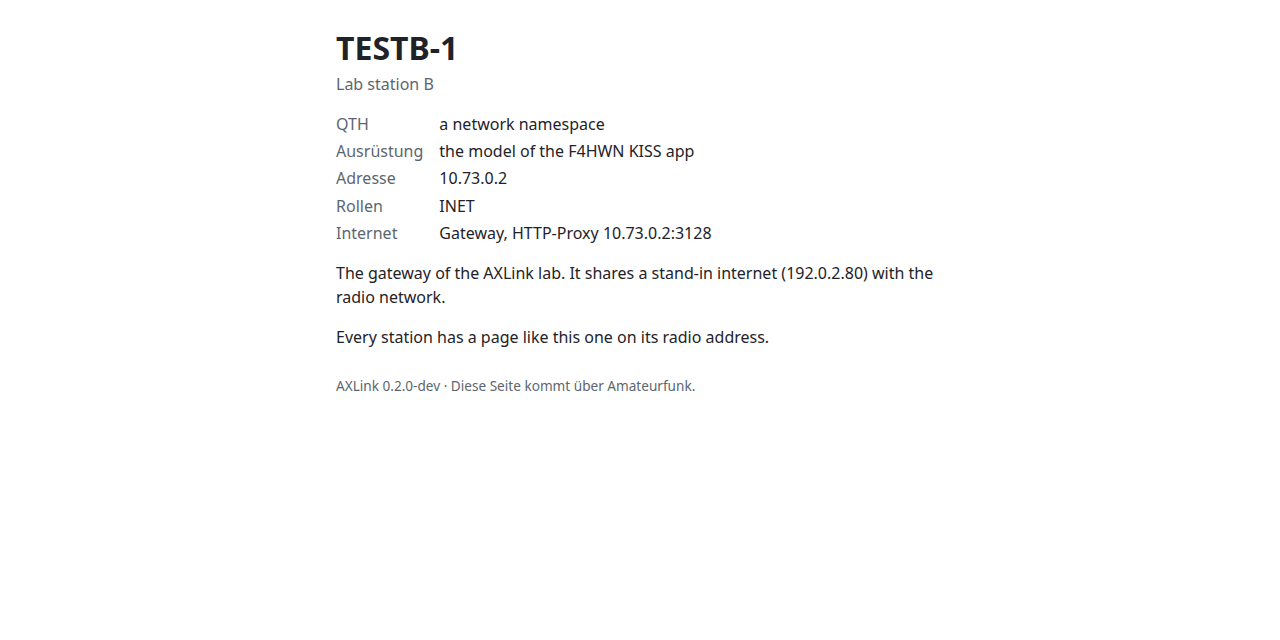
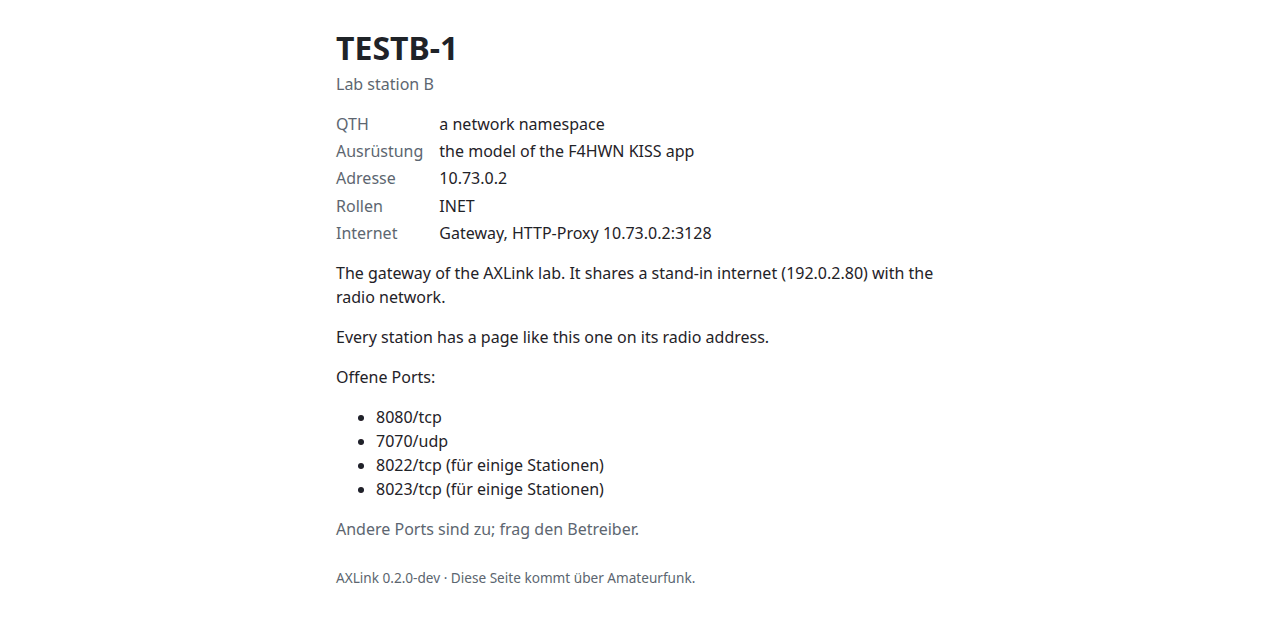
Beacons: random postponed answers, a relay's echo; new pictures
Another mesh run failed: the first beacons of A and C collided at B
before they knew B, and their answers to B, postponed to exactly 30 s
after those beacons, collided again; then nothing for ten minutes. A
postponed answer now waits a random 2-8 s more, and a beacon sent with
the flood alias must come back repeated by the relay, else it goes out
again after 10-20 s (three times in all); the relay's copy also ends the
asking again. Two runs side by side then passed, one of them after the
same first collision (answers 0.7 s apart).

New pictures from the labs: the chat of A and of B, the mesh lab's
station list (C via B, with locator and distance), a chat over the relay,
the settings with relay and port forwarding, and the results of both
labs. The mesh lab's stations announce locators about 11 km apart.

Claude-Session: https://claude.ai/code/session_01FQn5b4ALqUnyishbDBEL3W

Changed region(s): [[0.25, 0.5625, 0.5625, 0.7812], [0.25, 0.875, 0.5312, 0.9062], [0.25, 0.8125, 0.5, 0.8438]]

diff --git a/internal/discovery/service.go b/internal/discovery/service.go
@@ -27,6 +27,11 @@ var (
 	// other may have asked at the same moment and collided at a relay.
 	askAgain = [2]time.Duration{10 * time.Second, 20 * time.Second}
 	maxAsks  = 3
+	// A beacon sent with the flood alias comes back repeated by the relay;
+	// without that echo after echoWait it goes out again, maxSends times in
+	// all: it collided at the relay with a station we cannot hear.
+	echoWait = [2]time.Duration{10 * time.Second, 20 * time.Second}
+	maxSends = 3
 )
 
 // Config sets up a Service.
@@ -104,6 +109,9 @@ type Service struct {
 	lastSent time.Time
 	askAt    time.Time // ask again then, if nothing was heard since the last ask; zero for not
 	asks     int       // beacons with ask=1 sent
+	echoAt   time.Time // send again then, if no relay has repeated the last beacon; zero for not
+	echoAsk  bool      // that beacon asked
+	sends    int       // copies of that beacon sent
 }
 
 // New returns a service; start Run to send beacons.
@@ -175,7 +183,9 @@ func (s *Service) due(now time.Time) (send, ask bool, wake time.Time) {
 	// since the beacon that asked for it.
 	if !s.answerAt.IsZero() && !now.Before(s.answerAt) {
 		if now.Sub(s.lastSent) < answerGap {
-			s.answerAt = s.lastSent.Add(answerGap) // at most one answer in 30 s
+			// At most one answer in 30 s; the random part keeps two stations
+			// whose beacons collided from answering in step again.
+			s.answerAt = s.lastSent.Add(answerGap + s.between(answerDelay))
 		} else {
 			return true, s.first, time.Time{}
 		}
@@ -186,6 +196,9 @@ func (s *Service) due(now time.Time) (send, ask bool, wake time.Time) {
 	if !s.askAt.IsZero() && !now.Before(s.askAt) {
 		return true, true, time.Time{}
 	}
+	if !s.echoAt.IsZero() && !now.Before(s.echoAt) {
+		return true, s.echoAsk, time.Time{}
+	}
 	wake = s.next
 	if !s.answerAt.IsZero() && s.answerAt.Before(wake) {
 		wake = s.answerAt
@@ -193,12 +206,28 @@ func (s *Service) due(now time.Time) (send, ask bool, wake time.Time) {
 	if !s.askAt.IsZero() && s.askAt.Before(wake) {
 		wake = s.askAt
 	}
+	if !s.echoAt.IsZero() && s.echoAt.Before(wake) {
+		wake = s.echoAt
+	}
 	return false, false, wake
 }
 
 func (s *Service) send(now time.Time, ask bool) {
 	s.mu.Lock()
-	frame, err := s.cfg.beacon(ask).FrameVia(s.cfg.Call, s.floodLocked(now))
+	path := s.floodLocked(now)
+	frame, err := s.cfg.beacon(ask).FrameVia(s.cfg.Call, path)
+	again := !s.echoAt.IsZero() && !now.Before(s.echoAt) // the last copy did not come back
+	s.echoAt = time.Time{}
+	if len(path) > 0 {
+		if again {
+			s.sends++
+		} else {
+			s.sends = 1
+		}
+		if s.sends < maxSends {
+			s.echoAt, s.echoAsk = now.Add(s.between(echoWait)), ask
+		}
+	}
 	s.lastSent = now
 	s.first = false
 	s.answerAt = time.Time{} // this beacon answers everything heard before
@@ -303,6 +332,9 @@ func (s *Service) Handle(frame []byte) bool {
 		s.warnOnce("invalid:"+call.String(), "invalid beacon ignored", "call", call.String(), "err", err)
 		return true
 	case call.SameStation(s.cfg.Call):
+		if len(via) > 0 { // a relay repeated our beacon: it reached the relay and goes on from there
+			s.echoAt, s.askAt = time.Time{}, time.Time{}
+		}
 		echo := b.Addr == s.cfg.Addr && b.Every == s.cfg.Every && b.Proxy == s.cfg.Proxy && slices.Equal(b.Tags, s.cfg.Tags) &&
 			b.Locator == s.cfg.Locator
 		if !echo { // an echo of our own beacon (some TNCs return what they sent) is fine

diff --git a/internal/discovery/service_test.go b/internal/discovery/service_test.go
@@ -184,7 +184,11 @@ func TestAtMostOneAnswerIn30Seconds(t *testing.T) {
 	if len(ts.sent) != 1 {
 		t.Fatal("answered within 30 s of the last beacon")
 	}
-	ts.step(sentAt.Add(30 * time.Second))
+	ts.step(sentAt.Add(30*time.Second + answerDelay[0] - time.Millisecond))
+	if len(ts.sent) != 1 {
+		t.Fatal("the postponed answer came without its random wait")
+	}
+	ts.step(sentAt.Add(30*time.Second + answerDelay[1]))
 	if len(ts.sent) != 2 {
 		t.Fatal("the postponed answer did not come")
 	}
@@ -378,6 +382,36 @@ func TestAnUnansweredAskIsRepeated(t *testing.T) {
 	ts.step(ts.after(5 * time.Minute))
 	if n := asks(ts.sent); n != 1 {
 		t.Fatalf("%d asks from a station alone", n)
+	}
+}
+
+func TestAFloodedBeaconIsSentAgainUntilARelayRepeatsIt(t *testing.T) {
+	ts := newTestService(t, DefaultEvery)
+	ts.step(ts.after(5 * time.Second)) // the first beacon, no relay known: no path, no echo expected
+	ts.Handle(beaconFrom(t, "TESTB-1", Beacon{Addr: addr("10.73.0.2/24"), Tags: []string{"RELAY"}}))
+	start := ts.now
+	ts.step(start.Add(time.Minute)) // the answer to B, with AXHOP-2
+	ts.step(start.Add(3 * time.Minute))
+	flooded := 0
+	for _, p := range ts.paths {
+		if len(p) > 0 {
+			flooded++
+		}
+	}
+	if flooded != maxSends {
+		t.Fatalf("%d flooded beacons without an echo, want %d: %v", flooded, maxSends, ts.paths)
+	}
+	// With the relay's copy coming back, one is enough.
+	ts = newTestService(t, DefaultEvery)
+	ts.Handle(beaconFrom(t, "TESTB-1", Beacon{Addr: addr("10.73.0.2/24"), Tags: []string{"RELAY"}}))
+	ts.step(ts.after(5 * time.Second))
+	if len(ts.sent) != 1 || len(ts.paths[0]) != 1 {
+		t.Fatalf("%+v %v", ts.sent, ts.paths)
+	}
+	ts.Handle(relayed(t, "TESTA-1", ts.sent[0], "TESTB-1"))
+	ts.step(ts.after(3 * time.Minute))
+	if len(ts.sent) != 1 {
+		t.Fatalf("sent again although B repeated it: %d", len(ts.sent))
 	}
 }
 

diff --git a/README.md b/README.md
@@ -4,25 +4,28 @@
   <img alt="Status: alpha" src="https://img.shields.io/badge/status-alpha-orange">
   <a href="https://github.com/TechnikWeber/AXLink/releases"><img alt="Latest release" src="https://img.shields.io/github/v/release/TechnikWeber/AXLink?include_prereleases&label=release"></a>
   <a href="https://github.com/TechnikWeber/AXLink/actions/workflows/ci.yml"><img alt="tests" src="https://img.shields.io/github/actions/workflow/status/TechnikWeber/AXLink/ci.yml?branch=main&label=tests"></a>
-  <img alt="Platform: Linux | Windows (macOS planned)" src="https://img.shields.io/badge/platform-Linux%20%7C%20Windows%20%28macOS%20planned%29-blue">
+  <img alt="Platform: Linux | Windows | macOS" src="https://img.shields.io/badge/platform-Linux%20%7C%20Windows%20%7C%20macOS-blue">
   <img alt="Radio: any KISS TNC, UV-K1 | UV-K5 V3" src="https://img.shields.io/badge/radio-KISS%20TNC%20%7C%20UV--K1%20%7C%20UV--K5%20V3-blue">
   <img alt="UI: English | German" src="https://img.shields.io/badge/UI-English%20%7C%20German-informational">
   <a href="LICENSE"><img alt="License: GPL-3.0-or-later" src="https://img.shields.io/badge/license-GPL--3.0--or--later-green"></a>
 </p>
 
-**Ordinary network programs over a handheld radio: ping, curl and small web servers at
-1200 baud.**
+**Ordinary network programs over a handheld radio: ping, browsers, SSH, small web servers and a
+chat at 1200 baud.**
 
 AXLink connects a KISS radio or TNC, opens a virtual network adapter and sends IP packets as
 AX.25 UI frames (PID `0xCC`), the framing that Linux, JNOS, BPQ and Packet.NET use. Programs work
-unchanged, only slowly.
+unchanged, only slowly. Next to that it carries a chat as APRS messages, relays for stations out
+of range, and an internet gateway for stations without internet.
 
 It is tuned first to the Quansheng UV-K1 / UV-K5 V3 with the F4HWN firmware and its KISS TNC
 app, and works with any KISS TNC (Dire Wolf, hardware TNCs, KISS over TCP).
 
-> **Status: alpha (0.2.0-dev).** Linux works in the lab: two stations, a simulated channel,
-> real kernel IP stacks. On Windows the network adapter passes its test in CI. Real radios and
-> macOS come next. Nothing has been on the air yet.
+> **Status: alpha, prerelease 0.2.0-alpha.1.** Works in the lab: stations in their own network
+> namespaces with real kernel IP stacks, a simulated channel with a model of the F4HWN KISS app,
+> two stations or three with a relay. The network adapter passes its test in CI on Linux,
+> Windows and macOS. **Nothing has been on the air with a real radio yet.**
+> Start: [QUICKSTART.md](docs/QUICKSTART.md).
 
 ![The web interface: live monitor, stations heard, internet gateway and firewall](docs/images/client-overview-en.png)
 
@@ -36,65 +39,92 @@ a welcome page over the radio ([English](docs/images/welcome-en.png), [German](d
 
 ## What works
 
-- `axlinkd run`: a radio over USB (F4HWN radios are found by their USB ID `36B7:FFFF`), KISS
+- **A network adapter** on Linux (TUN), Windows (Wintun) and macOS (utun) and IPv4 over AX.25
+  UI/PID `0xCC`, with a destination filter, checksum checks, routes and a broadcast filter.
+  Radio packets stay at 256 bytes; where the adapter MTU must be larger (Windows: 576), AXLink
+  lowers the TCP MSS and fragments.
+- **`axlinkd run`:** a radio over USB (F4HWN radios are found by their USB ID `36B7:FFFF`), KISS
   over TCP or a Unix socket. It reconnects after USB resets, paces frames per TNC profile and
-  supports ACKMODE.
-- Station discovery: each station announces its address and roles (`INET`, `RELAY`, …) in a
-  short beacon, so stations in the same subnet reach each other without configured routes.
-- Internet gateway: a station with internet access shares it as an HTTP proxy (HTTPS through
-  CONNECT, names resolved on the gateway). A client chooses the gateway in its web interface;
-  browser and programs use the local proxy `127.0.0.1:7374`, set up once.
-- A web interface in English and German with a live monitor (channel load, transmit queue,
-  throughput as in a task manager), the stations heard, the choice of the gateway and settings
-  that survive a restart. It runs on the own computer and needs no internet.
-- A firewall, on by default: radio stations reach only answers to own connections, ping and the
-  ports you open, optionally per callsign; your home network is never reachable over the radio.
-- A welcome page per station on its radio address, written in the web interface: who runs it,
-  where, with what.
-- A network adapter `axl0` on Linux (TUN) and Windows (Wintun) and IPv4 over AX.25 UI/PID
-  `0xCC`, with a destination filter, checksum checks, routes and a broadcast filter. Radio
-  packets stay at 256 bytes; where the adapter MTU must be larger (Windows: 576), AXLink lowers
-  the TCP MSS and fragments.
-- A lab without radios: `scripts/lab-netns.sh` runs two stations in their own network namespaces
-  (no root, no Docker) and checks beacons, ping, UDP, HTTP, the gateway and the web interface
-  through a simulated channel with a model of the F4HWN KISS app. It also runs in CI.
+  supports ACKMODE ([AXLink TNC](https://github.com/TechnikWeber/AXLink-TNC)).
+- **Stations find each other:** each station announces its address, roles (`INET`, `RELAY`, …)
+  and, if its operator wants, its locator in a short beacon. No routes to configure; the station
+  list shows distance and direction.
+- **Chat** as APRS messages straight over the radio, no IP: to a station (acknowledged, repeated,
+  kept in a mailbox until the station is heard again, for up to a week) or to everyone in the CQ
+  room. Neither the firewall nor the internet sharing stands in the way. Radios with the
+  [APRS messenger firmware](https://github.com/TechnikWeber/uv-k1-k5v3-aprs-firmware) speak the
+  same format.
+- **Mesh:** a station switched to "Relay" repeats frames as a digipeater; beacons and CQ travel
+  over up to two relays, and stations learn over which relays the others are reached
+  ([protocol](docs/protocol/mesh.md)).
+- **Internet gateway:** a station with internet access shares it as an HTTP proxy (HTTPS through
+  CONNECT, names resolved on the gateway), open to everyone or to listed callsigns. A client
+  chooses the gateway in its web interface or asks for access in the chat; browser and programs
+  use the local proxy `127.0.0.1:7374`.
+- **A firewall,** on by default: radio stations reach only answers to own connections, ping and
+  the ports you open, optionally per callsign; a refused station learns it at once instead of
+  waiting. **Port forwarding** publishes one service of your network (SSH, a web server) on the
+  radio address; the rest of your network stays unreachable.
+- **A welcome page** per station on its radio address: who runs it, where, with what, which
+  ports are open.
+- **A web interface** in English and German: a live monitor (channel load, transmit queue,
+  throughput as in a task manager), the stations heard, the chat, the gateway and settings that
+  survive a restart. It runs on the own computer and needs no internet.
+- **A lab without radios:** `scripts/lab-netns.sh` (two stations) and `scripts/lab-mesh.sh`
+  (three in a line, the middle one relays) run stations in their own network namespaces (no
+  root, no Docker) through a simulated channel with a model of the F4HWN KISS app. The
+  two-station lab also runs in CI.
+
+![The chat: a message to TESTB-1, acknowledged, and its answer](docs/images/client-chat-en.png)
+
+*The chat of station A in the lab: a message to B, delivered and acknowledged at the first try,
+and B's answer. APRS messages over the simulated channel, no IP. [German](docs/images/client-chat-de.png).*
+
+![Station A sees C over the relay B](docs/images/mesh-overview-en.png)
+
+*The mesh lab: A hears only B; C, out of A's range, is listed "via TESTB-1" with its locator and
+distance, and reached over B. [German](docs/images/mesh-overview-de.png) ·
+[a chat with C over B](docs/images/mesh-chat-en.png) · [the lab's result](docs/images/lab-mesh.svg).*
 
 ![Result of the two-station lab](docs/images/lab.svg)
 
-*A lab run on 2026-11-02 (`bash scripts/lab-netns.sh`; picture from its output with
-`scripts/lab-svg.py`). A model, not a radio.*
+*A lab run (`bash scripts/lab-netns.sh`; picture from its output with `scripts/lab-svg.py`). A
+model, not a radio.*
 
 ## Quick start
 
+Download the package for Linux, Windows or macOS from the
+[releases](https://github.com/TechnikWeber/AXLink/releases), unpack it and start, with your own
+callsign and an address agreed with the other stations:
+
 ```sh
-bash scripts/setup-go.sh                 # Go into .tools/go
-export PATH="$PWD/.tools/go/bin:$PATH"
-go test ./...
-bash scripts/lab-netns.sh                # the two-station lab
-go build -o axlinkd ./cmd/axlinkd
-./axlinkd ports
-sudo ./axlinkd run -call <CALL>-1 -port auto -ip 10.73.0.1/24
+sudo ./axlinkd run -call <CALL>-1 -port auto -ip 10.73.0.1/24      # Windows: as administrator, axlinkd.exe
 # then open http://127.0.0.1:7373 in the browser
 ```
 
-Windows: an administrator PowerShell and `wintun.dll` next to `axlinkd.exe`
-(`scripts/fetch-wintun.ps1`); see [DEVELOPMENT.md](docs/DEVELOPMENT.md).
+Step by step for each system, the radio included: [QUICKSTART.md](docs/QUICKSTART.md). From the
+source code: `bash scripts/setup-go.sh`, then `go build ./cmd/axlinkd`
+([DEVELOPMENT.md](docs/DEVELOPMENT.md)).
 
 Use your own callsign; placeholders such as `N0CALL` are refused. Every operator is
 responsible for what is allowed on their frequency; AXLink does not restrict traffic.
 
 ## Radio firmware
 
-- F4HWN Labs v6.3.0 with its KISS TNC app works today.
+- F4HWN Labs v6.3.0 with its KISS TNC app (profile `f4hwn-kisstnc`, the default).
 - [AXLink TNC](https://github.com/TechnikWeber/AXLink-TNC): our variant of the KISS app with
-  extensions for hosts such as AXLink (in progress). Runs on the original Labs v6.3.0.
+  ACKMODE, a counter for lost frames and a fix for frames cut by a USB reset (prerelease
+  v0.2.0-alpha.1, host-tested, not yet on a radio; profile `f4hwn-kisstnc-ackmode`). Runs on the
+  original Labs v6.3.0.
 - Messenger and KISS TNC on one radio until F4HWN v7: [MULTIBOOT_V6.md](docs/MULTIBOOT_V6.md).
 
 ## Documents
 
 | Document | Content |
 |---|---|
+| [QUICKSTART.md](docs/QUICKSTART.md) | install and start on Linux, Windows, macOS |
 | [ARCHITECTURE.md](docs/ARCHITECTURE.md) | how AXLink is built |
+| [protocol/](docs/protocol/) | the beacon and the relays (CC BY 4.0) |
 | [DECISIONS.md](docs/DECISIONS.md) | the decisions; they take precedence |
 | [DEVELOPMENT.md](docs/DEVELOPMENT.md) | build, test, run, lab |
 | [TODO.md](docs/TODO.md) | open points |

diff --git a/docs/protocol/beacon.md b/docs/protocol/beacon.md
@@ -64,11 +64,16 @@ chooses that, e.g. by setting the announced proxy as its HTTP proxy.
 - Then periodically every `every` seconds, varied at random by ±10 %.
 - Answer: after a beacon with `ask=1`, or one from a station that is not in the table, a station
   sends its own beacon after a random 2–8 s, unless it has sent one since it heard that beacon.
-  It answers at most once in 30 s and postpones a later answer instead of dropping it.
+  It answers at most once in 30 s and postpones a later answer instead of dropping it, to a
+  random 2–8 s after the 30 s, so that two stations whose beacons collided do not answer in step
+  again.
 - Asking again: a station that knows other stations and hears no beacon at all within a random
   10–20 s after its beacon with `ask=1` sends it again, three times in all. Two stations that do
   not hear each other may have asked at the same moment and collided at a relay; a station alone
   asks once.
+- Echo: a beacon sent with the flood alias (see [mesh.md](mesh.md)) comes back repeated by the
+  relay, with the relay in its path. A station that hears no such copy of its own beacon within a
+  random 10–20 s sends it again, three times in all. The copy also ends the asking again.
 - A station is forgotten 3 × its `every` + 60 s after its last beacon.
 
 Load at 1200 bit/s: a beacon of 30–50 bytes is about 0.6 s on the air. Every 10 minutes that is

diff --git a/CHANGELOG.md b/CHANGELOG.md
@@ -24,8 +24,12 @@ the air with a real radio.
   (`-relay`, tag `RELAY`) repeats frames as an AX.25 digipeater; beacons and CQ messages travel
   with the flood alias `AXHOP-2` over up to two relays, and stations learn from them over which
   relays another station is reached. `scripts/lab-mesh.sh`: three stations in a line; A and C
-  found each other over B, ping, HTTP and chat over B. Stations that do not hear each other
-  collide at the relay (hidden stations); TCP and the chat repeat what is lost.
+  found each other over B in 35-42 s, ping, HTTP and chat over B. Stations that do not hear each
+  other collide at the relay (hidden stations); TCP and the chat repeat what is lost. Because the
+  beacons of two hidden stations can collide at the relay too, a station sends a flooded beacon
+  again when the relay's copy does not come back, asks again when its ask stays unanswered among
+  known stations, and postpones answers by a random time, so that stations that collided once do
+  not stay in step.
 - Port forwarding (`internal/forward`): `-forward 2222=192.168.1.10:22=<CALL>` or the settings
   publish a TCP service of the own network on a port of the radio address; nothing else of the
   network becomes reachable. Lab: B's local server through B's port 8022.

diff --git a/docs/ARCHITECTURE.md b/docs/ARCHITECTURE.md
@@ -217,10 +217,12 @@ its own computer or network. The format: [protocol/mesh.md](protocol/mesh.md).
 
 The lab `scripts/lab-mesh.sh` puts three stations in a line (A hears B, B hears C, A and C do
 not hear each other) with B as the relay. In the F4HWN model with ACKMODE, A and C found each
-other over B within about 40 s; ping took about 5 s per round trip, a small HTTP file about
-55 s, and a chat message from A to C was delivered at the second try. The channel showed a
-dozen collisions at B: A and C cannot hear each other's carrier (hidden stations), which AX.25
-on one frequency cannot prevent; TCP and the chat repeat what was lost.
+other over B in 35-42 s; ping took about 5 s per round trip, a small HTTP file 25-55 s, and a
+chat message from A to C was delivered at the first or second try. The channel showed 7-12
+collisions at B: A and C cannot hear each other's carrier (hidden stations), which AX.25 on one
+frequency cannot prevent; TCP and the chat repeat what was lost. One run showed why a station
+must ask again: the first beacons of A and C collided at B, and without an answer nobody would
+have sent another beacon for ten minutes (see the beacon timing).
 
 ## Chat
 

diff --git a/docs/protocol/mesh.md b/docs/protocol/mesh.md
@@ -31,6 +31,9 @@ TESTC-1>AXLINK,TESTB-1,TESTD-1*,AXHOP*  repeated by D: no hops left
 
 Senders use `AXHOP-2` (at most two relays), and only while they hear a station with the tag
 `RELAY` directly; without a relay around, frames go without a path. IP frames are never flooded.
+A sender hears its own flooded beacon come back from the relay; without that copy it sends the
+beacon again (see the beacon's timing): stations that do not hear each other may have collided
+at the relay.
 
 **Duplicates.** A relay does not repeat the same frame (source, destination, PID and information
 field; the path changes on the way) twice within 30 s when flooding and 5 s when named.
